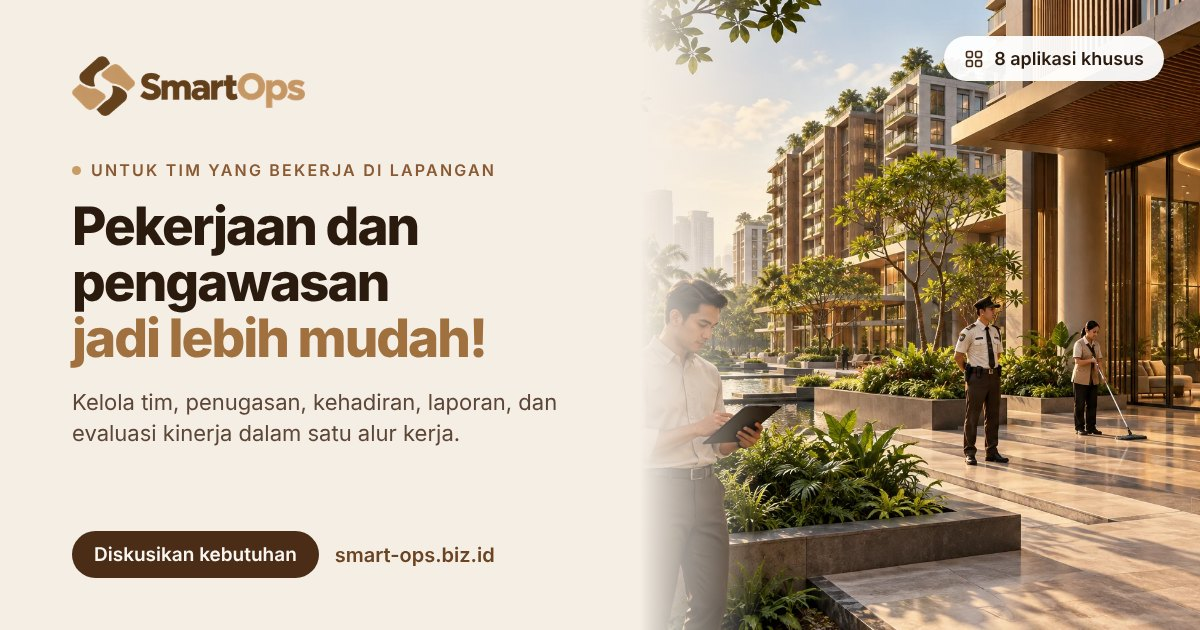
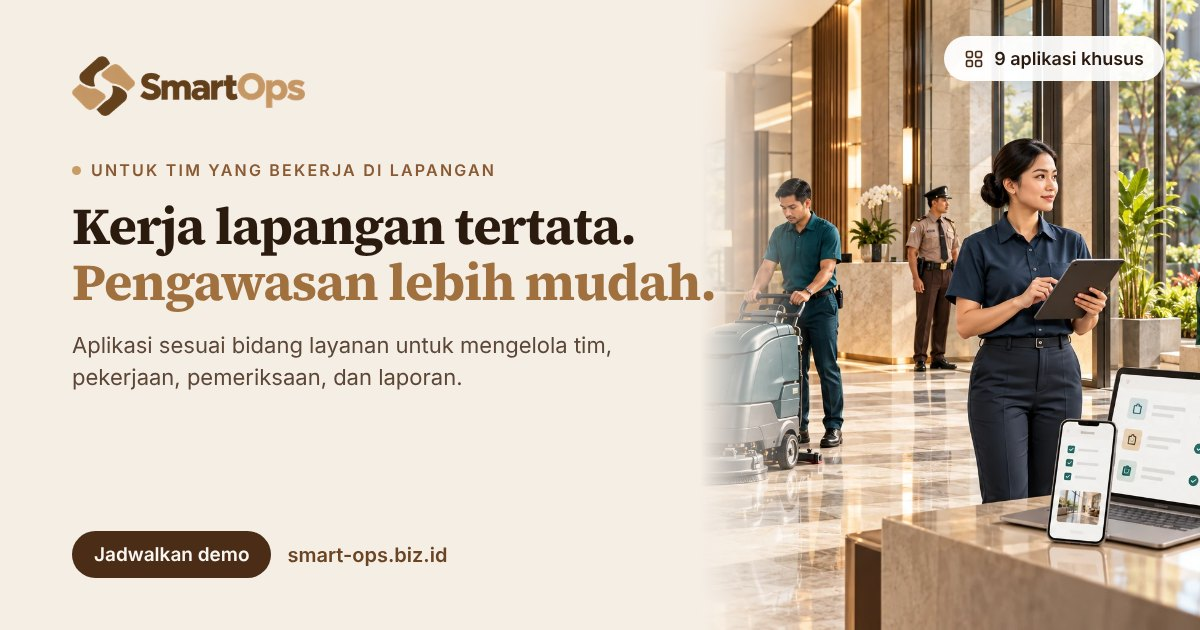
Perbarui gambar & meta Open Graph sesuai beranda baru (9 aplikasi)
Claude-Session: https://claude.ai/code/session_019BNXdz7eBQ5XKUxVwxW2yn

diff --git a/index.html b/index.html
@@ -15,18 +15,18 @@
 <meta property="og:site_name" content="SmartOps">
 <meta property="og:locale" content="id_ID">
 <meta property="og:url" content="https://smart-ops.biz.id/">
-<meta property="og:title" content="SmartOps — Pekerjaan dan pengawasan jadi lebih mudah!">
-<meta property="og:description" content="Kelola tim operasional, penugasan, kehadiran, laporan, dan evaluasi kinerja dalam satu alur kerja. Operasional lebih tertib, efisien, dan mudah dipantau.">
-<meta property="og:image" content="https://smart-ops.biz.id/assets/og-image.jpg">
-<meta property="og:image:secure_url" content="https://smart-ops.biz.id/assets/og-image.jpg">
+<meta property="og:title" content="SmartOps — Kerja lapangan tertata. Pengawasan lebih mudah.">
+<meta property="og:description" content="Sembilan aplikasi sesuai bidang layanan untuk mengelola tim, pekerjaan, pemeriksaan, dan laporan: Workforce, Security, Cleaning, Pest Control, Gondola & Climbing, Garden, Project, STP, Field Service.">
+<meta property="og:image" content="https://smart-ops.biz.id/assets/og-image.jpg?v=2">
+<meta property="og:image:secure_url" content="https://smart-ops.biz.id/assets/og-image.jpg?v=2">
 <meta property="og:image:type" content="image/jpeg">
 <meta property="og:image:width" content="1200">
 <meta property="og:image:height" content="630">
-<meta property="og:image:alt" content="SmartOps — Pekerjaan dan pengawasan jadi lebih mudah! Ilustrasi tim operasional di area gedung.">
+<meta property="og:image:alt" content="SmartOps — Kerja lapangan tertata. Pengawasan lebih mudah. Ilustrasi tim operasional di area gedung.">
 <meta name="twitter:card" content="summary_large_image">
-<meta name="twitter:title" content="SmartOps — Pekerjaan dan pengawasan jadi lebih mudah!">
-<meta name="twitter:description" content="Kelola tim operasional, penugasan, kehadiran, laporan, dan evaluasi kinerja dalam satu alur kerja.">
-<meta name="twitter:image" content="https://smart-ops.biz.id/assets/og-image.jpg">
+<meta name="twitter:title" content="SmartOps — Kerja lapangan tertata. Pengawasan lebih mudah.">
+<meta name="twitter:description" content="Aplikasi sesuai bidang layanan untuk mengelola tim, pekerjaan, pemeriksaan, dan laporan.">
+<meta name="twitter:image" content="https://smart-ops.biz.id/assets/og-image.jpg?v=2">
 <link rel="preconnect" href="https://fonts.googleapis.com">
 <link rel="stylesheet" href="https://fonts.googleapis.com/css2?family=Inter:wght@400;500;600;700&family=Source+Serif+4:opsz,wght@8..60,600;8..60,700&display=swap">
 <link rel="stylesheet" href="css/styles.css">
